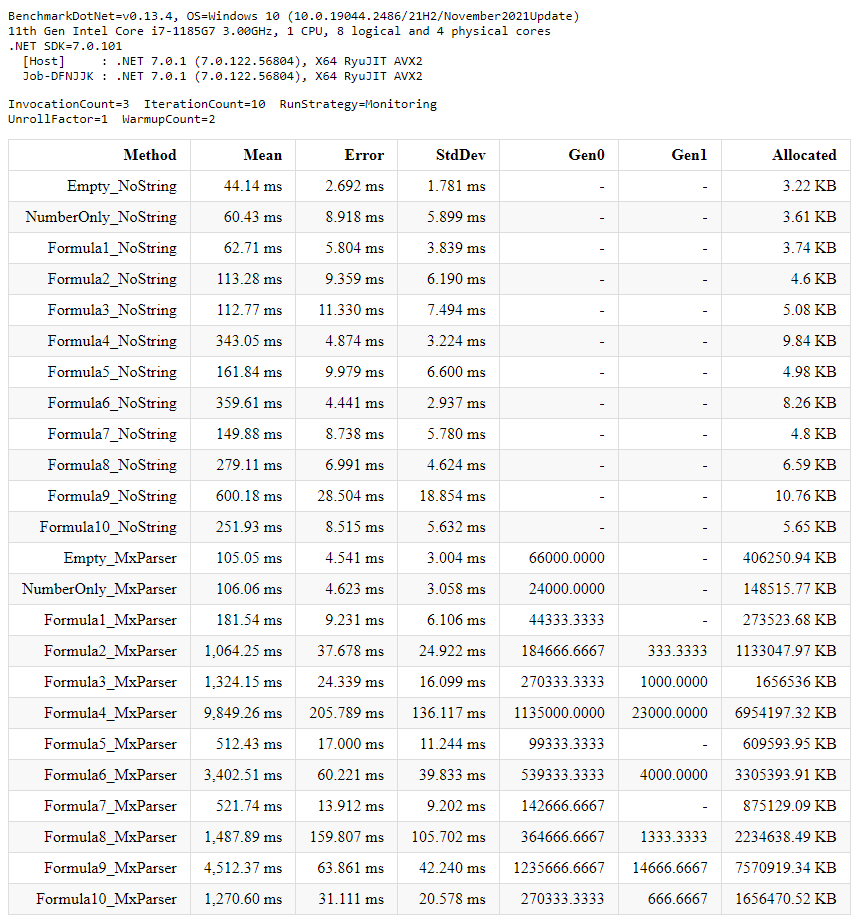
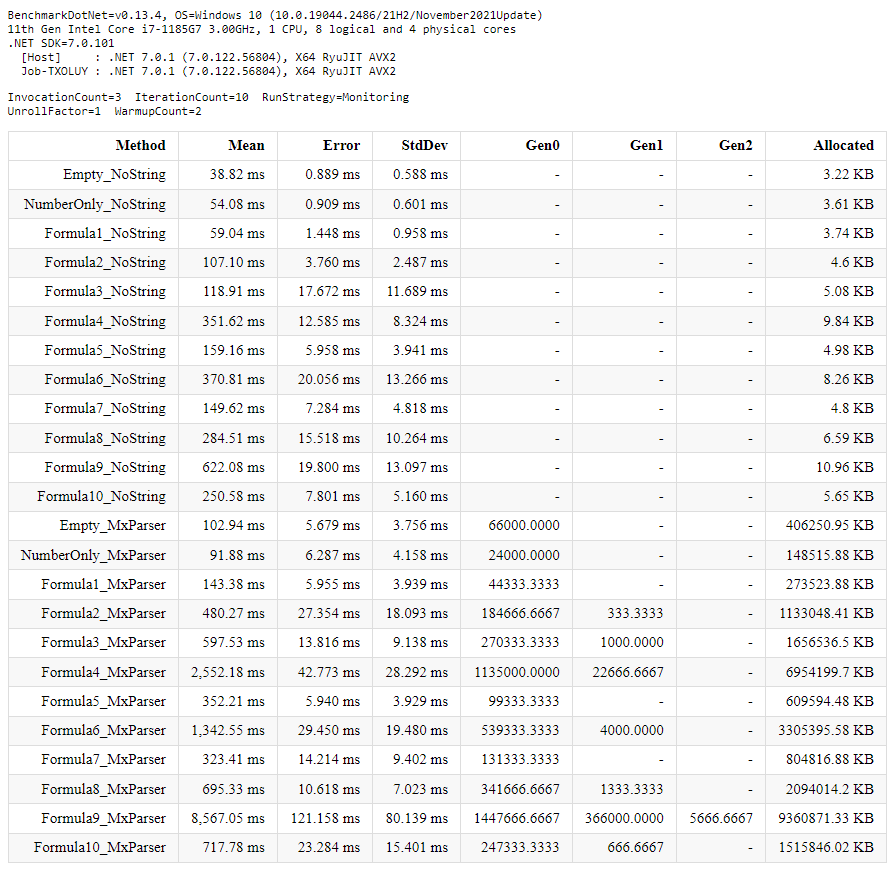
Updated to improved mXparser version

diff --git a/BenchResults/both.html b/BenchResults/both.html
@@ -2,7 +2,7 @@
 <html lang='en'>
 <head>
 <meta charset='utf-8' />
-<title>ConsoleApp.Benchmark.BenchNumbers-20230130-172830</title>
+<title>ConsoleApp.Benchmark.BenchNumbers-20230208-090211</title>
 
 <style type="text/css">
 	table { border-collapse: collapse; display: block; width: 100%; overflow: auto; }
@@ -17,39 +17,39 @@ BenchmarkDotNet=v0.13.4, OS=Windows 10 (10.0.19044.2486/21H2/November2021Update)
 11th Gen Intel Core i7-1185G7 3.00GHz, 1 CPU, 8 logical and 4 physical cores
 .NET SDK=7.0.101
   [Host]     : .NET 7.0.1 (7.0.122.56804), X64 RyuJIT AVX2
-  Job-DFNJJK : .NET 7.0.1 (7.0.122.56804), X64 RyuJIT AVX2
+  Job-TXOLUY : .NET 7.0.1 (7.0.122.56804), X64 RyuJIT AVX2
 </code></pre>
 <pre><code>InvocationCount=3  IterationCount=10  RunStrategy=Monitoring  
 UnrollFactor=1  WarmupCount=2  
 </code></pre>
 
 <table>
-<thead><tr><th>       Method</th><th> Mean</th><th>Error</th><th>StdDev</th><th>  Gen0</th><th>Gen1</th><th>Allocated</th>
+<thead><tr><th>       Method</th><th> Mean</th><th>Error</th><th>StdDev</th><th>  Gen0</th><th> Gen1</th><th>Gen2</th><th>Allocated</th>
 </tr>
-</thead><tbody><tr><td>Empty_NoString</td><td>44.14 ms</td><td>2.692 ms</td><td>1.781 ms</td><td>-</td><td>-</td><td>3.22 KB</td>
-</tr><tr><td>NumberOnly_NoString</td><td>60.43 ms</td><td>8.918 ms</td><td>5.899 ms</td><td>-</td><td>-</td><td>3.61 KB</td>
-</tr><tr><td>Formula1_NoString</td><td>62.71 ms</td><td>5.804 ms</td><td>3.839 ms</td><td>-</td><td>-</td><td>3.74 KB</td>
-</tr><tr><td>Formula2_NoString</td><td>113.28 ms</td><td>9.359 ms</td><td>6.190 ms</td><td>-</td><td>-</td><td>4.6 KB</td>
-</tr><tr><td>Formula3_NoString</td><td>112.77 ms</td><td>11.330 ms</td><td>7.494 ms</td><td>-</td><td>-</td><td>5.08 KB</td>
-</tr><tr><td>Formula4_NoString</td><td>343.05 ms</td><td>4.874 ms</td><td>3.224 ms</td><td>-</td><td>-</td><td>9.84 KB</td>
-</tr><tr><td>Formula5_NoString</td><td>161.84 ms</td><td>9.979 ms</td><td>6.600 ms</td><td>-</td><td>-</td><td>4.98 KB</td>
-</tr><tr><td>Formula6_NoString</td><td>359.61 ms</td><td>4.441 ms</td><td>2.937 ms</td><td>-</td><td>-</td><td>8.26 KB</td>
-</tr><tr><td>Formula7_NoString</td><td>149.88 ms</td><td>8.738 ms</td><td>5.780 ms</td><td>-</td><td>-</td><td>4.8 KB</td>
-</tr><tr><td>Formula8_NoString</td><td>279.11 ms</td><td>6.991 ms</td><td>4.624 ms</td><td>-</td><td>-</td><td>6.59 KB</td>
-</tr><tr><td>Formula9_NoString</td><td>600.18 ms</td><td>28.504 ms</td><td>18.854 ms</td><td>-</td><td>-</td><td>10.76 KB</td>
-</tr><tr><td>Formula10_NoString</td><td>251.93 ms</td><td>8.515 ms</td><td>5.632 ms</td><td>-</td><td>-</td><td>5.65 KB</td>
-</tr><tr><td>Empty_MxParser</td><td>105.05 ms</td><td>4.541 ms</td><td>3.004 ms</td><td>66000.0000</td><td>-</td><td>406250.94 KB</td>
-</tr><tr><td>NumberOnly_MxParser</td><td>106.06 ms</td><td>4.623 ms</td><td>3.058 ms</td><td>24000.0000</td><td>-</td><td>148515.77 KB</td>
-</tr><tr><td>Formula1_MxParser</td><td>181.54 ms</td><td>9.231 ms</td><td>6.106 ms</td><td>44333.3333</td><td>-</td><td>273523.68 KB</td>
-</tr><tr><td>Formula2_MxParser</td><td>1,064.25 ms</td><td>37.678 ms</td><td>24.922 ms</td><td>184666.6667</td><td>333.3333</td><td>1133047.97 KB</td>
-</tr><tr><td>Formula3_MxParser</td><td>1,324.15 ms</td><td>24.339 ms</td><td>16.099 ms</td><td>270333.3333</td><td>1000.0000</td><td>1656536 KB</td>
-</tr><tr><td>Formula4_MxParser</td><td>9,849.26 ms</td><td>205.789 ms</td><td>136.117 ms</td><td>1135000.0000</td><td>23000.0000</td><td>6954197.32 KB</td>
-</tr><tr><td>Formula5_MxParser</td><td>512.43 ms</td><td>17.000 ms</td><td>11.244 ms</td><td>99333.3333</td><td>-</td><td>609593.95 KB</td>
-</tr><tr><td>Formula6_MxParser</td><td>3,402.51 ms</td><td>60.221 ms</td><td>39.833 ms</td><td>539333.3333</td><td>4000.0000</td><td>3305393.91 KB</td>
-</tr><tr><td>Formula7_MxParser</td><td>521.74 ms</td><td>13.912 ms</td><td>9.202 ms</td><td>142666.6667</td><td>-</td><td>875129.09 KB</td>
-</tr><tr><td>Formula8_MxParser</td><td>1,487.89 ms</td><td>159.807 ms</td><td>105.702 ms</td><td>364666.6667</td><td>1333.3333</td><td>2234638.49 KB</td>
-</tr><tr><td>Formula9_MxParser</td><td>4,512.37 ms</td><td>63.861 ms</td><td>42.240 ms</td><td>1235666.6667</td><td>14666.6667</td><td>7570919.34 KB</td>
-</tr><tr><td>Formula10_MxParser</td><td>1,270.60 ms</td><td>31.111 ms</td><td>20.578 ms</td><td>270333.3333</td><td>666.6667</td><td>1656470.52 KB</td>
+</thead><tbody><tr><td>Empty_NoString</td><td>38.82 ms</td><td>0.889 ms</td><td>0.588 ms</td><td>-</td><td>-</td><td>-</td><td>3.22 KB</td>
+</tr><tr><td>NumberOnly_NoString</td><td>54.08 ms</td><td>0.909 ms</td><td>0.601 ms</td><td>-</td><td>-</td><td>-</td><td>3.61 KB</td>
+</tr><tr><td>Formula1_NoString</td><td>59.04 ms</td><td>1.448 ms</td><td>0.958 ms</td><td>-</td><td>-</td><td>-</td><td>3.74 KB</td>
+</tr><tr><td>Formula2_NoString</td><td>107.10 ms</td><td>3.760 ms</td><td>2.487 ms</td><td>-</td><td>-</td><td>-</td><td>4.6 KB</td>
+</tr><tr><td>Formula3_NoString</td><td>118.91 ms</td><td>17.672 ms</td><td>11.689 ms</td><td>-</td><td>-</td><td>-</td><td>5.08 KB</td>
+</tr><tr><td>Formula4_NoString</td><td>351.62 ms</td><td>12.585 ms</td><td>8.324 ms</td><td>-</td><td>-</td><td>-</td><td>9.84 KB</td>
+</tr><tr><td>Formula5_NoString</td><td>159.16 ms</td><td>5.958 ms</td><td>3.941 ms</td><td>-</td><td>-</td><td>-</td><td>4.98 KB</td>
+</tr><tr><td>Formula6_NoString</td><td>370.81 ms</td><td>20.056 ms</td><td>13.266 ms</td><td>-</td><td>-</td><td>-</td><td>8.26 KB</td>
+</tr><tr><td>Formula7_NoString</td><td>149.62 ms</td><td>7.284 ms</td><td>4.818 ms</td><td>-</td><td>-</td><td>-</td><td>4.8 KB</td>
+</tr><tr><td>Formula8_NoString</td><td>284.51 ms</td><td>15.518 ms</td><td>10.264 ms</td><td>-</td><td>-</td><td>-</td><td>6.59 KB</td>
+</tr><tr><td>Formula9_NoString</td><td>622.08 ms</td><td>19.800 ms</td><td>13.097 ms</td><td>-</td><td>-</td><td>-</td><td>10.96 KB</td>
+</tr><tr><td>Formula10_NoString</td><td>250.58 ms</td><td>7.801 ms</td><td>5.160 ms</td><td>-</td><td>-</td><td>-</td><td>5.65 KB</td>
+</tr><tr><td>Empty_MxParser</td><td>102.94 ms</td><td>5.679 ms</td><td>3.756 ms</td><td>66000.0000</td><td>-</td><td>-</td><td>406250.95 KB</td>
+</tr><tr><td>NumberOnly_MxParser</td><td>91.88 ms</td><td>6.287 ms</td><td>4.158 ms</td><td>24000.0000</td><td>-</td><td>-</td><td>148515.88 KB</td>
+</tr><tr><td>Formula1_MxParser</td><td>143.38 ms</td><td>5.955 ms</td><td>3.939 ms</td><td>44333.3333</td><td>-</td><td>-</td><td>273523.88 KB</td>
+</tr><tr><td>Formula2_MxParser</td><td>480.27 ms</td><td>27.354 ms</td><td>18.093 ms</td><td>184666.6667</td><td>333.3333</td><td>-</td><td>1133048.41 KB</td>
+</tr><tr><td>Formula3_MxParser</td><td>597.53 ms</td><td>13.816 ms</td><td>9.138 ms</td><td>270333.3333</td><td>1000.0000</td><td>-</td><td>1656536.5 KB</td>
+</tr><tr><td>Formula4_MxParser</td><td>2,552.18 ms</td><td>42.773 ms</td><td>28.292 ms</td><td>1135000.0000</td><td>22666.6667</td><td>-</td><td>6954199.7 KB</td>
+</tr><tr><td>Formula5_MxParser</td><td>352.21 ms</td><td>5.940 ms</td><td>3.929 ms</td><td>99333.3333</td><td>-</td><td>-</td><td>609594.48 KB</td>
+</tr><tr><td>Formula6_MxParser</td><td>1,342.55 ms</td><td>29.450 ms</td><td>19.480 ms</td><td>539333.3333</td><td>4000.0000</td><td>-</td><td>3305395.58 KB</td>
+</tr><tr><td>Formula7_MxParser</td><td>323.41 ms</td><td>14.214 ms</td><td>9.402 ms</td><td>131333.3333</td><td>-</td><td>-</td><td>804816.88 KB</td>
+</tr><tr><td>Formula8_MxParser</td><td>695.33 ms</td><td>10.618 ms</td><td>7.023 ms</td><td>341666.6667</td><td>1333.3333</td><td>-</td><td>2094014.2 KB</td>
+</tr><tr><td>Formula9_MxParser</td><td>8,567.05 ms</td><td>121.158 ms</td><td>80.139 ms</td><td>1447666.6667</td><td>366000.0000</td><td>5666.6667</td><td>9360871.33 KB</td>
+</tr><tr><td>Formula10_MxParser</td><td>717.78 ms</td><td>23.284 ms</td><td>15.401 ms</td><td>247333.3333</td><td>666.6667</td><td>-</td><td>1515846.02 KB</td>
 </tr></tbody></table>
 </body>
 </html>

diff --git a/README.md b/README.md
@@ -63,7 +63,7 @@ Microsoft.Extensions.DependencyInjection <br/>
 ## Performance
 Compared with a good solution [mXparser](https://github.com/mariuszgromada/MathParser.org-mXparser "mXparser")
 
-- In general, **x8** faster!
+- In general, **x4** faster!
 
 ### Testing formulas
 |  № | Formula |
